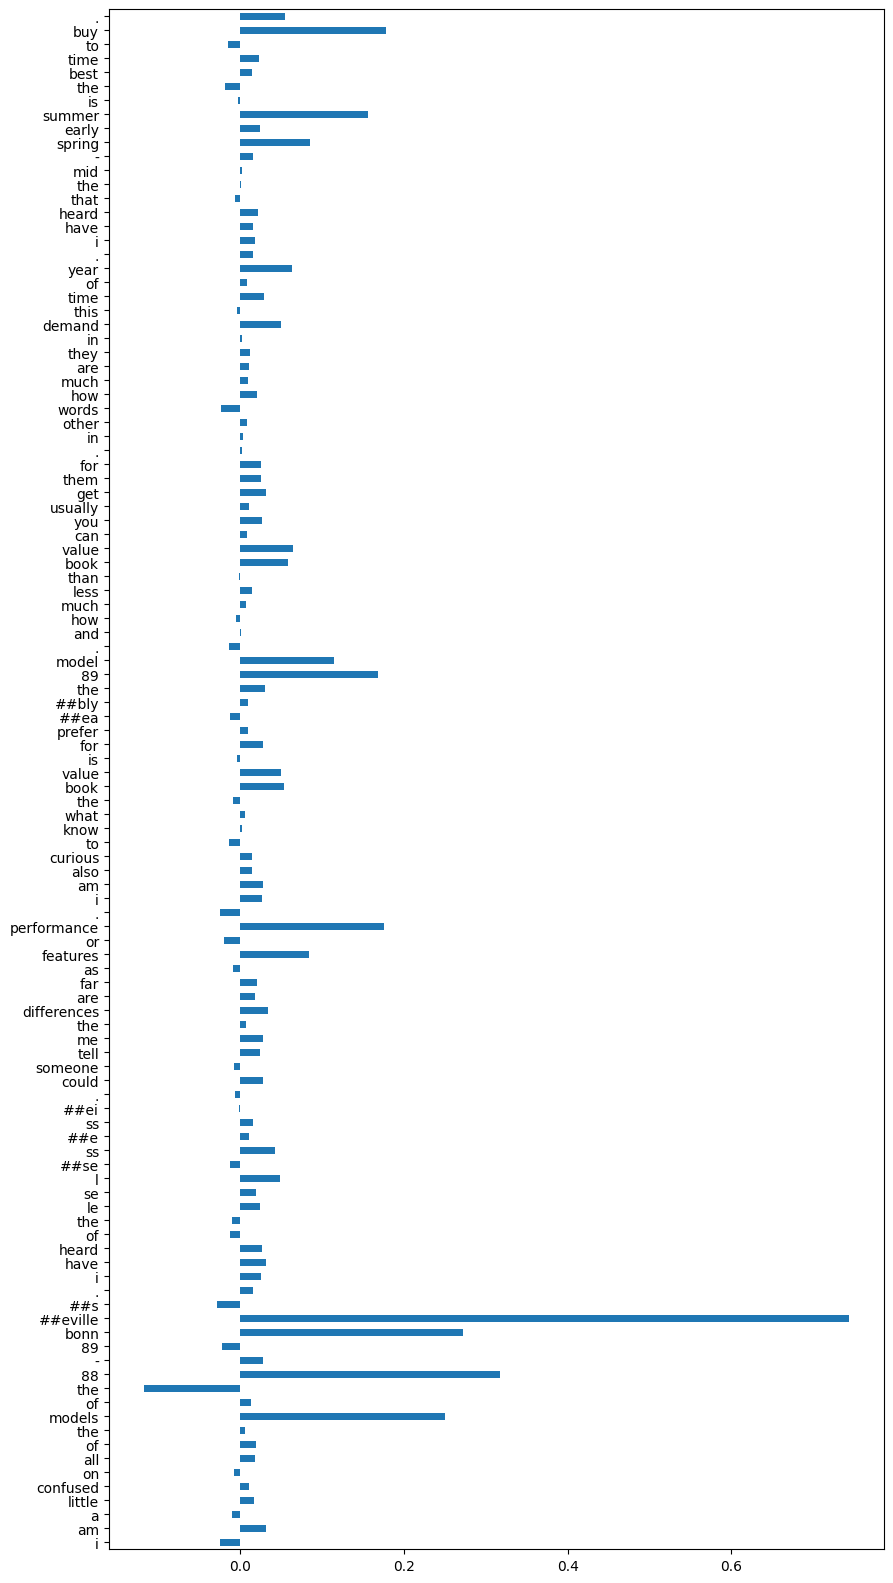
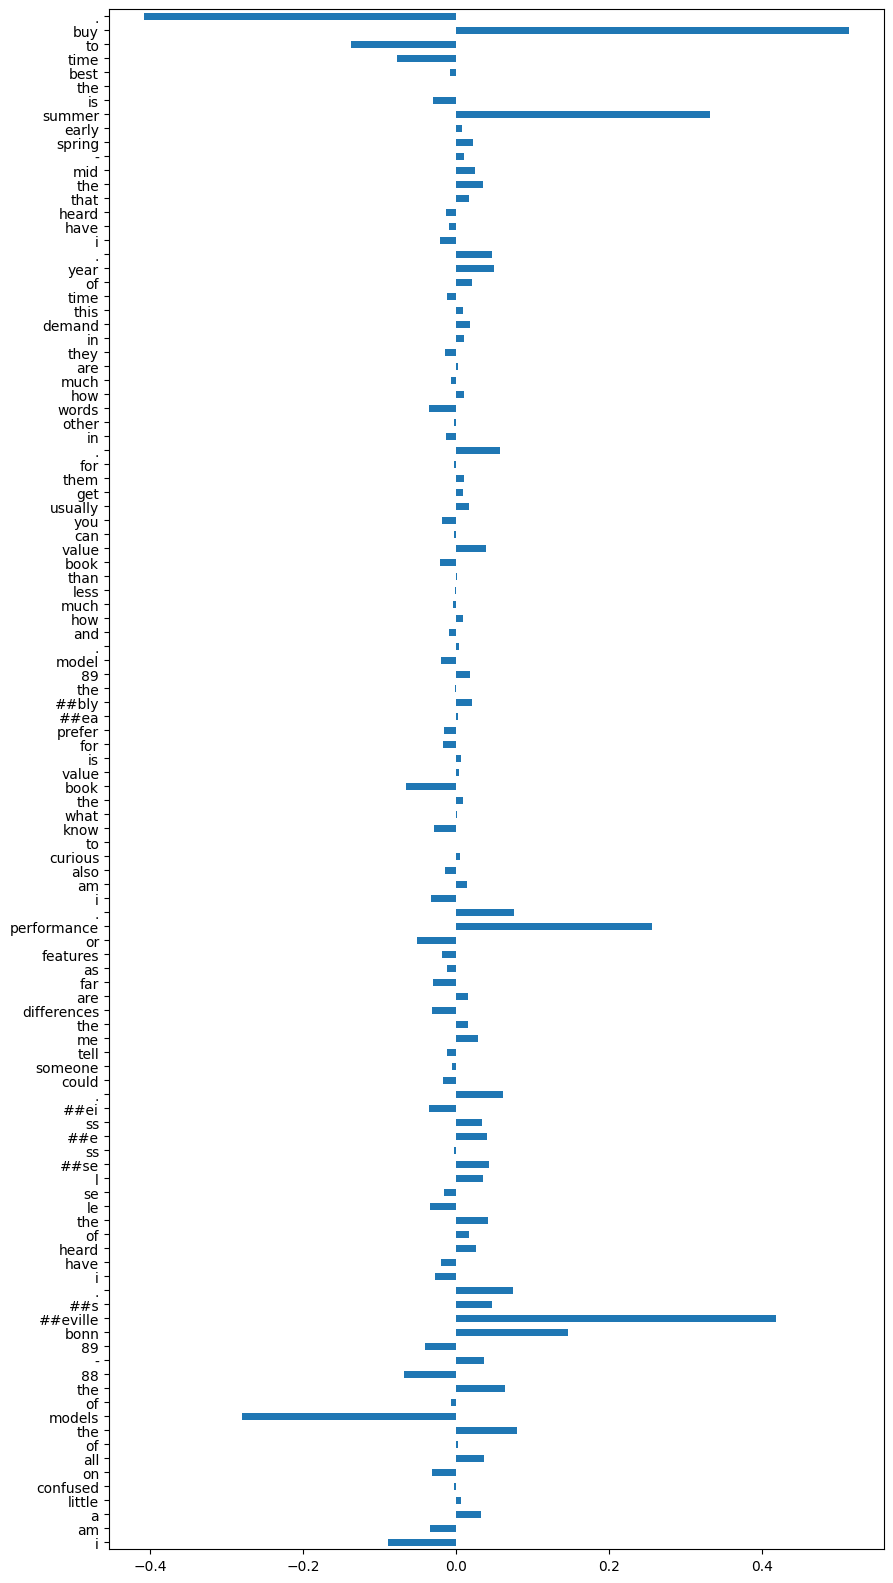
run with bert

diff --git a/explainer.py b/explainer.py
@@ -48,13 +48,14 @@ class ExplainableTransformerPipeline():
         inputs = self.generate_inputs(text)
         baseline = self.generate_baseline(sequence_len = inputs.shape[1])
         
-        lig = LayerIntegratedGradients(self.forward_func, getattr(self.__pipeline.model, 'distilbert').embeddings)
+        lig = LayerIntegratedGradients(self.forward_func, getattr(self.__pipeline.model, 'bert').embeddings)
         
         attributes, delta = lig.attribute(inputs=inputs,
                                   baselines=baseline,
                                   target = self.__pipeline.model.config.label2id[prediction[0]['label']], 
                                   return_convergence_delta = True)
         print(inputs, attributes, prediction)
+        print(inputs.shape, attributes.shape)
         self.visualize(inputs, attributes)
         
     def generate_inputs(self, text: str) -> tensor:

diff --git a/captum-explain.py b/captum-explain.py
@@ -1,9 +1,12 @@
-from transformers import pipeline, DistilBertTokenizer
+from transformers import pipeline, DistilBertTokenizer, BertTokenizer
 import explainer
 
 
-model_repo = 'distilbert-20news-0'
-tok = DistilBertTokenizer.from_pretrained(model_repo)
+model_repo = 'bert-20news-0'
+if model_repo.startswith('distil'):
+    tok = DistilBertTokenizer.from_pretrained(model_repo)
+else:
+    tok = BertTokenizer.from_pretrained(model_repo)
 
 clf = pipeline(task= 'text-classification',
                       model= f"{model_repo}",
